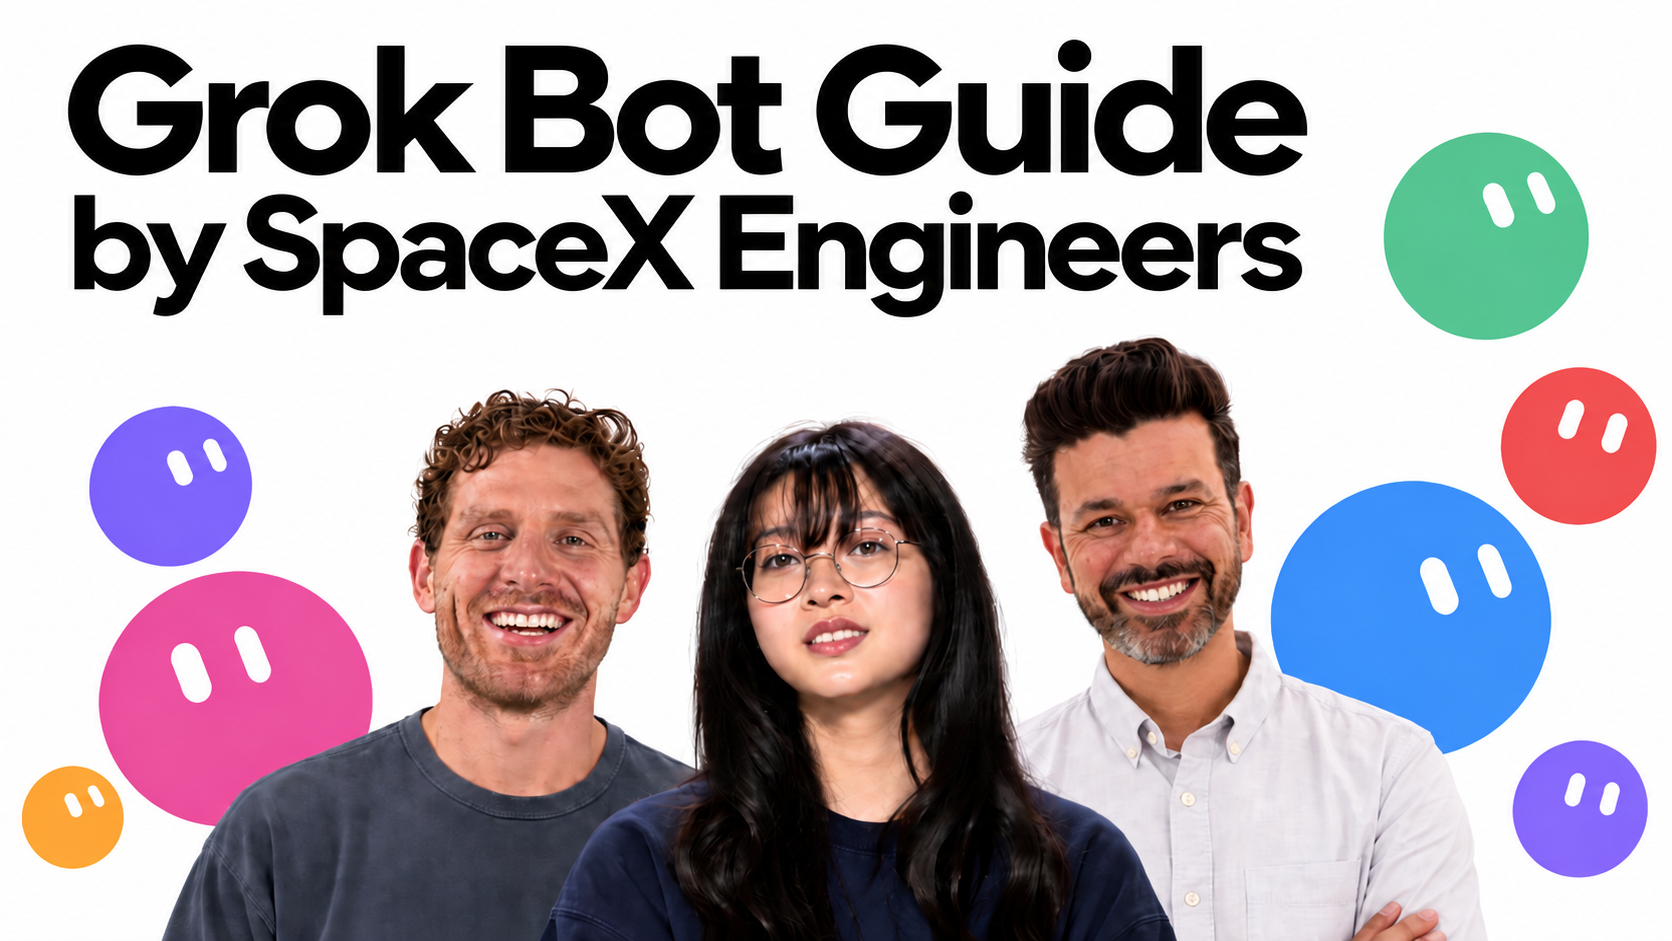
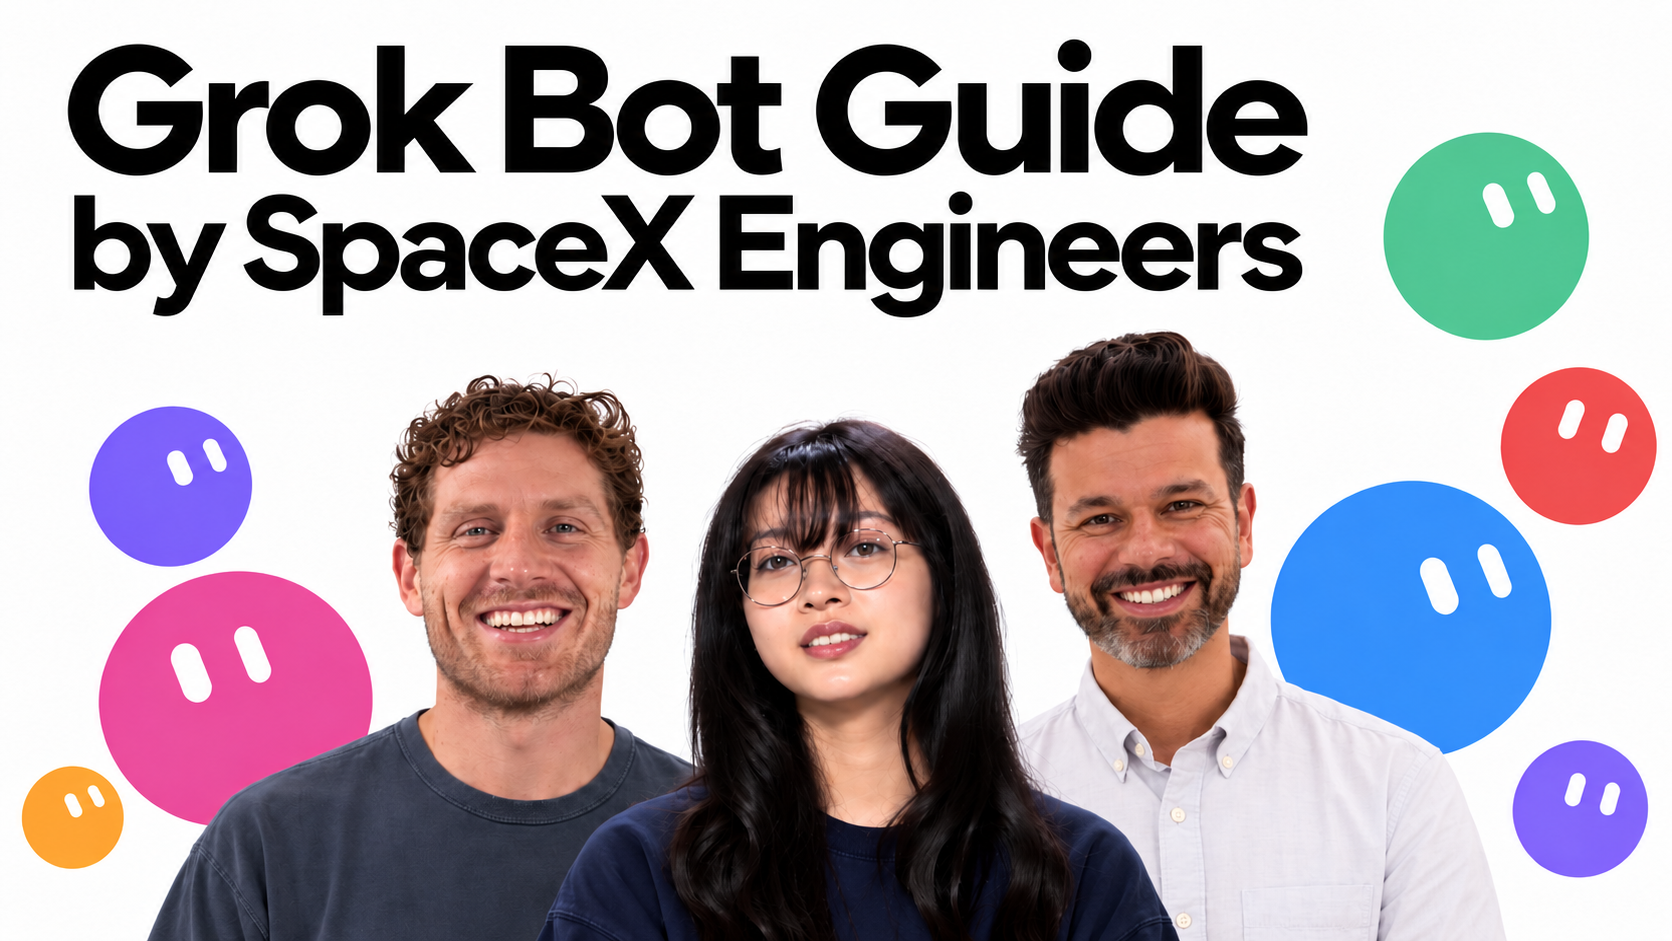
Replace the cover image, tighten README wording

diff --git a/README.md b/README.md
@@ -2,14 +2,7 @@
 
 # Grok Bot Field Notes
 
-Three engineers from the xAI Grok Bot team — [Roshan Sadanani](https://www.linkedin.com/in/roshansadanani)
-(product), [Lauren Tan](https://www.linkedin.com/in/laurenelizabethtan)
-(engineering, author of PStack) and [Matt Palmer](https://www.linkedin.com/in/matt-palmer)
-(developer experience) — built and launched a product from an empty repo in
-72 hours, live on stream, using their own agent platform. This repo is what I
-pulled out of those three days: a designed guide, rules you can drop into
-your own agents, nine role playbooks, a catalogue of bot roles, and a log of
-everything that broke.
+Three engineers from the xAI Grok Bot team built and launched a product from an empty repo in 72 hours, live on stream, using their own agent platform: [Roshan Sadanani](https://www.linkedin.com/in/roshansadanani) (product), [Lauren Tan](https://www.linkedin.com/in/laurenelizabethtan) (engineering, author of PStack), and [Matt Palmer](https://www.linkedin.com/in/matt-palmer) (developer experience). This repo is what I pulled out of those three days: a designed guide, rules you can drop into your own agents, nine role playbooks, a catalogue of bot roles, and a log of everything that broke.
 
 ## What's here
 
@@ -40,9 +33,8 @@ everything that broke.
 
 ## In one paragraph
 
-Give each agent one narrow job and a name. Build a verification loop before
-you build the second agent. Make the agent reproduce a bug before it fixes
-one, and attach proof to everything. When it's wrong, write down the general
-principle, never the specific story. Audit your routines weekly, because
-frequency is where the money goes. Keep a human gate on migrations, deploys,
-money and permissions, no matter how well the loop has been working.
+Give each agent one narrow job and a name. Build a verification loop before you build the second agent.
+
+Make the agent reproduce a bug before it fixes one, and attach proof to everything. When it's wrong, write down the general principle, never the specific story.
+
+Audit your routines weekly, because frequency is where the money goes. Keep a human gate on migrations, deploys, money and permissions, no matter how well the loop has been working.
